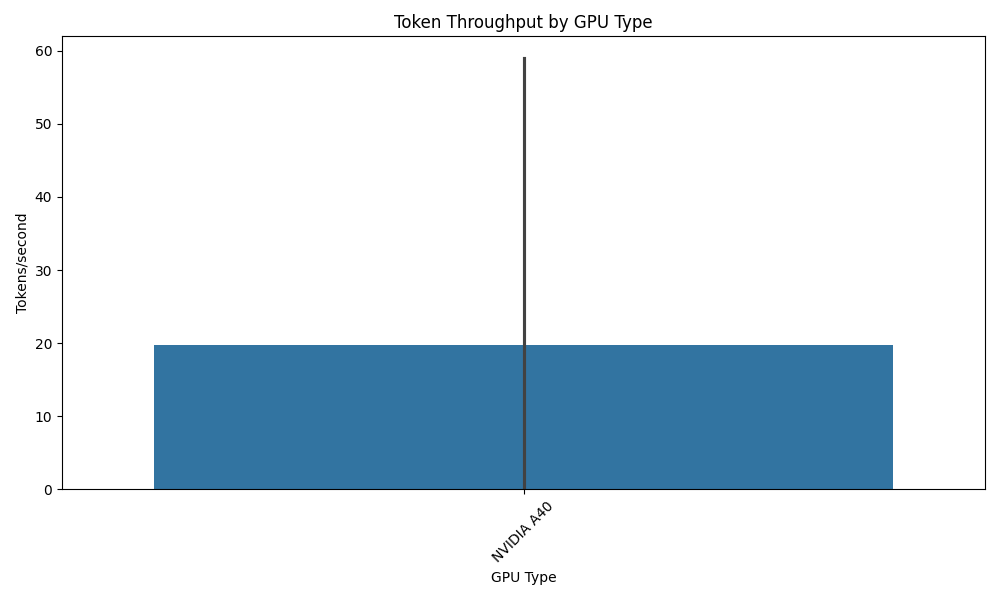
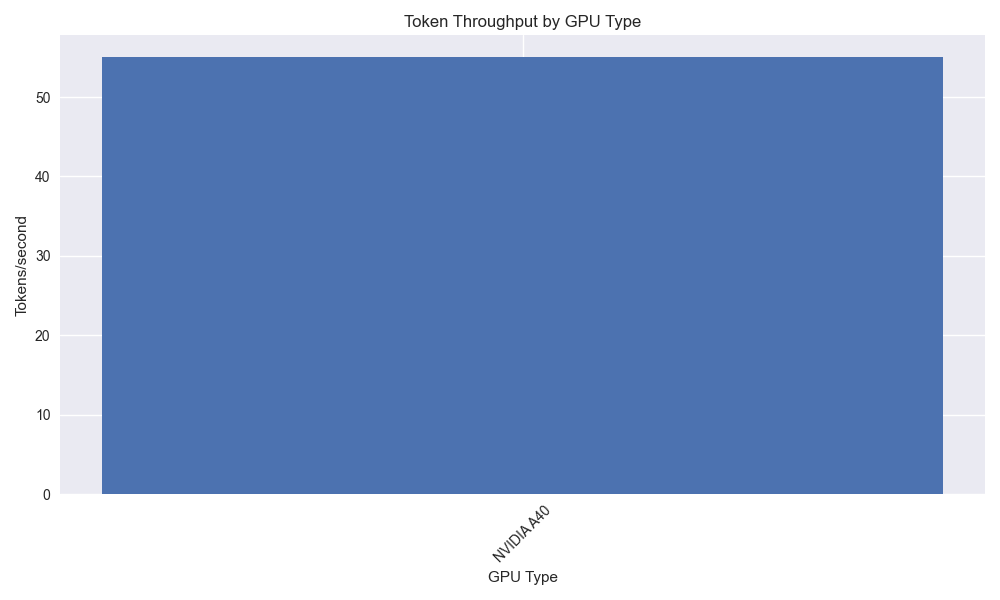
Add price per token
- Updated README.md to include new environment variable for tokenizers parallelism and added price-per-hour argument for benchmarking.
- Modified token_benchmark_ray.py to accept and store price-per-hour in the results database.
- Improved visualization script to aggregate and display GPU metrics using bar plots instead of seaborn for better clarity.
- Removed outdated latency plots and updated throughput plots to reflect new data structure.
- Adjusted database insertion logic for better maintainability.

diff --git a/src/llmperf/database.py b/src/llmperf/database.py
@@ -59,21 +59,22 @@ class ResultsDB:
 
         results = summary.get('results', {})
         
-        # Get metrics
+        # Get e2e latency and TTFT metrics
         e2e_latency = results.get(common_metrics.E2E_LAT, {})
+        ttft = results.get(common_metrics.TTFT, {}).get('mean') if results.get(common_metrics.TTFT) else None
         mean_latency = e2e_latency.get('mean') if e2e_latency else None
         p99_latency = (e2e_latency.get('quantiles', {}).get('p99') if e2e_latency else None)
-        
+
+        # Get throughput metrics
         output_throughput = float(results.get(common_metrics.OUTPUT_THROUGHPUT) or 
                                 results.get(common_metrics.REQ_OUTPUT_THROUGHPUT) or 
                                 0.0)
         
         # Calculate price per token
-        tokens_per_hour = output_throughput * 3600  # convert from per second to per hour
-        price_per_token = price_per_hour / tokens_per_hour if tokens_per_hour > 0 else 0
-        
-        # Get TTFT
-        ttft = results.get(common_metrics.TTFT, {}).get('mean') if results.get(common_metrics.TTFT) else None
+        # price_per_second = price_per_hour / 3600
+        # price_per_token = price_per_second / output_throughput if output_throughput else 0
+        tokens_per_hour = output_throughput * 3600 if output_throughput else 0
+        price_per_token = price_per_hour / tokens_per_hour if tokens_per_hour else 0
         
         data = {
             'timestamp': datetime.now().isoformat(),
@@ -95,19 +96,10 @@ class ResultsDB:
             'metadata': json.dumps(summary.get('metadata', {}), cls=NumpyEncoder)
         }
 
-        c.execute('''
-            INSERT INTO benchmark_runs (
-                timestamp, model, gpu_info, price_per_hour, mean_input_tokens, mean_output_tokens,
-                num_concurrent_requests, overall_throughput, error_rate,
-                completed_requests, completed_requests_per_min, mean_latency,
-                p99_latency, price_per_token, ttft, raw_results, metadata
-            ) VALUES (
-                :timestamp, :model, :gpu_info, :price_per_hour, :mean_input_tokens, :mean_output_tokens,
-                :num_concurrent_requests, :overall_throughput, :error_rate,
-                :completed_requests, :completed_requests_per_min, :mean_latency,
-                :p99_latency, :price_per_token, :ttft, :raw_results, :metadata
-            )
-        ''', data)
+        # Insert into database
+        fields = ', '.join(data.keys())
+        placeholders = ', '.join([f':{k}' for k in data.keys()])
+        c.execute(f'INSERT INTO benchmark_runs ({fields}) VALUES ({placeholders})', data)
 
         conn.commit()
         conn.close() 

diff --git a/scripts/visualize_results.py b/scripts/visualize_results.py
@@ -20,8 +20,9 @@ def plot_metrics_by_gpu(df: pd.DataFrame, save_dir: str = "plots"):
     
     # 1. Throughput by GPU
     plt.figure(figsize=(10, 6))
-    sns.barplot(data=df, x='gpu_info', y='overall_throughput', 
-                ci='sd', capsize=0.1)
+    gpu_throughput = df.groupby('gpu_info')['overall_throughput'].agg(['mean', 'std']).reset_index()
+    plt.bar(gpu_throughput['gpu_info'], gpu_throughput['mean'], 
+            yerr=gpu_throughput['std'], capsize=5)
     plt.title('Token Throughput by GPU Type')
     plt.xlabel('GPU Type')
     plt.ylabel('Tokens/second')
@@ -29,11 +30,12 @@ def plot_metrics_by_gpu(df: pd.DataFrame, save_dir: str = "plots"):
     plt.tight_layout()
     plt.savefig(f"{save_dir}/throughput_by_gpu.png")
     plt.close()
-    
+
     # 2. Price per token by GPU
     plt.figure(figsize=(10, 6))
-    sns.barplot(data=df, x='gpu_info', y='price_per_token', 
-                ci='sd', capsize=0.1)
+    gpu_price = df.groupby('gpu_info')['price_per_token'].agg(['mean', 'std']).reset_index()
+    plt.bar(gpu_price['gpu_info'], gpu_price['mean'], 
+            yerr=gpu_price['std'], capsize=5)
     plt.title('Price per Token by GPU Type')
     plt.xlabel('GPU Type')
     plt.ylabel('Price per Token ($)')
@@ -41,11 +43,12 @@ def plot_metrics_by_gpu(df: pd.DataFrame, save_dir: str = "plots"):
     plt.tight_layout()
     plt.savefig(f"{save_dir}/price_per_token_by_gpu.png")
     plt.close()
-    
+
     # 3. Time to First Token by GPU
     plt.figure(figsize=(10, 6))
-    sns.barplot(data=df, x='gpu_info', y='ttft', 
-                ci='sd', capsize=0.1)
+    gpu_ttft = df.groupby('gpu_info')['ttft'].agg(['mean', 'std']).reset_index()
+    plt.bar(gpu_ttft['gpu_info'], gpu_ttft['mean'], 
+            yerr=gpu_ttft['std'], capsize=5)
     plt.title('Time to First Token by GPU Type')
     plt.xlabel('GPU Type')
     plt.ylabel('Time (seconds)')
@@ -59,15 +62,11 @@ def print_summary_stats(df: pd.DataFrame):
     print("\nSummary Statistics:")
     print("-" * 50)
     
-    # Group by GPU and calculate mean metrics with std
-    gpu_stats = df.groupby('gpu_info').agg({
-        'overall_throughput': ['mean', 'std'],
-        'price_per_token': ['mean', 'std'],
-        'ttft': ['mean', 'std']
-    }).round(4)
+    metrics = ['overall_throughput', 'price_per_token', 'ttft']
+    stats = df.groupby('gpu_info')[metrics].agg(['mean', 'std']).round(3)
     
     print("\nPerformance by GPU:")
-    print(gpu_stats)
+    print(stats)
     
     print("\nNumber of runs by GPU:")
     print(df['gpu_info'].value_counts())

diff --git a/token_benchmark_ray.py b/token_benchmark_ray.py
@@ -295,6 +295,7 @@ def run_token_benchmark(
     user_metadata: Dict[str, Any],
     gpu_info: str,
     db_path: str,
+    price_per_hour: float,
 ):
     """
     Args:
@@ -314,6 +315,7 @@ def run_token_benchmark(
         user_metadata: Additional metadata to include in the results.
         gpu_info: Information about the GPU being used.
         db_path: Path to SQLite database for storing results.
+        price_per_hour: The cost per hour for running the GPU instance
     """
     if mean_input_tokens < 40:
         print(
@@ -336,7 +338,7 @@ def run_token_benchmark(
 
     # Save to database
     db = ResultsDB(db_path)
-    db.save_results(summary, gpu_info)
+    db.save_results(summary, gpu_info, price_per_hour)
 
     if results_dir:
         filename = f"{model}_{mean_input_tokens}_{mean_output_tokens}"
@@ -483,6 +485,12 @@ args.add_argument(
     default="llmperf_results.db",
     help="Path to SQLite database for storing results",
 )
+args.add_argument(
+    "--price-per-hour",
+    type=float,
+    required=True,
+    help="The cost per hour for running the GPU instance",
+)
 
 if __name__ == "__main__":
     env_vars = dict(os.environ)
@@ -511,4 +519,5 @@ if __name__ == "__main__":
         user_metadata=user_metadata,
         gpu_info=args.gpu_info,
         db_path=args.db_path,
+        price_per_hour=args.price_per_hour,
     )

diff --git a/scripts/migrate_db.py b/scripts/migrate_db.py
@@ -1,0 +1,28 @@
+import sqlite3
+
+def migrate_database(db_path: str = "results.db"):
+    """Add new columns to existing database."""
+    conn = sqlite3.connect(db_path)
+    c = conn.cursor()
+    
+    # Add new columns if they don't exist
+    try:
+        c.execute('ALTER TABLE benchmark_runs ADD COLUMN price_per_hour REAL')
+    except sqlite3.OperationalError:
+        pass  # Column already exists
+        
+    try:
+        c.execute('ALTER TABLE benchmark_runs ADD COLUMN price_per_token REAL')
+    except sqlite3.OperationalError:
+        pass
+        
+    try:
+        c.execute('ALTER TABLE benchmark_runs ADD COLUMN ttft REAL')
+    except sqlite3.OperationalError:
+        pass
+    
+    conn.commit()
+    conn.close()
+
+if __name__ == "__main__":
+    migrate_database() 

diff --git a/README.md b/README.md
@@ -430,19 +430,21 @@ To save results with GPU information:
 ```bash
 export OPENAI_API_KEY=EMPTY
 export OPENAI_API_BASE="https://r8vv9omh1p4k53-8000.proxy.runpod.net/v1"
+export TOKENIZERS_PARALLELISM=false
 
 uv run python token_benchmark_ray.py \
 --model "neuralmagic/Meta-Llama-3.1-8B-Instruct-FP8" \
 --gpu-info "NVIDIA A40" \
+--price-per-hour 0.39 \
 --db-path "results.db" \
 --results-dir "result_outputs" \
 --mean-input-tokens 550 \
 --stddev-input-tokens 150 \
 --mean-output-tokens 150 \
 --stddev-output-tokens 10 \
---max-num-completed-requests 2 \
+--max-num-completed-requests 64 \
 --timeout 600 \
---num-concurrent-requests 2 \
+--num-concurrent-requests 64 \
 --additional-sampling-params '{}'
 ```
 
@@ -485,7 +487,7 @@ The database stores:
 After running benchmarks, you can visualize the results using the provided visualization script:
 
 ```bash
-python scripts/visualize_results.py
+uv run scripts/visualize_results.py
 ```
 
 This will:
